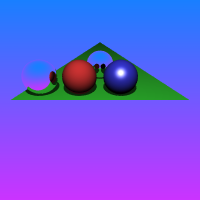
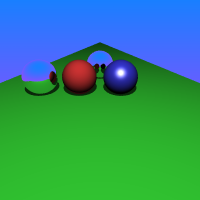
bigger triangle

diff --git a/src/mainCode.cpp b/src/mainCode.cpp
@@ -59,8 +59,8 @@ mirrorSphere2->setShader(mirror);
 //triangle as ground
     auto ground = 
     std::make_shared<Triangle>(
-        point3(-5, -1.0, -4), //x
-        point3(5, -1.0, -4), //y
+        point3(-10, -1.0, 3), //x
+        point3(10, -1.0, 3), //y
         point3(0, -1.0, -30) //z depth
     );
 
